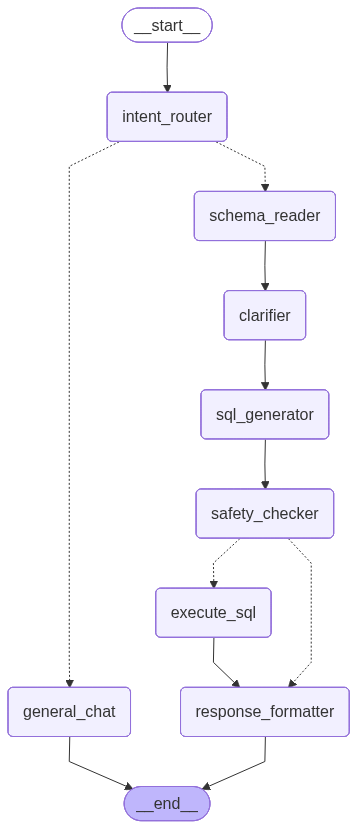
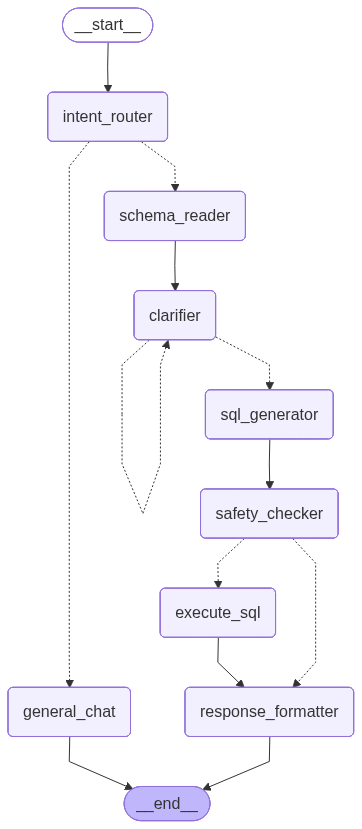
add chat history

diff --git a/frontend/src/components/ChatBox.jsx b/frontend/src/components/ChatBox.jsx
@@ -1,5 +1,5 @@
-import { useState } from "react";
-import { sendMessage, resumeChat } from "../api";
+import { useState,useEffect, useRef } from "react";
+import { sendMessage, resumeChat, fetchMessages } from "../api";
 import { statusEnum, roleEnum } from "../enums/llm_response";
 import SmartToyIcon from '@mui/icons-material/SmartToy';
 import FaceIcon from '@mui/icons-material/Face';
@@ -10,6 +10,12 @@ export default function ChatBox({ threadId, setThreadId }) {
   const [input, setInput] = useState("");
   const [waitingForResume, setWaitingForResume] = useState(false);
   const [isSending, setIsSending] = useState(false);
+  const [page, setPage] = useState(1);
+  const [hasMore, setHasMore] = useState(true);
+  const [loadingMore, setLoadingMore] = useState(false);
+  const [isscroll, setIsScroll] = useState(false);
+
+const chatBodyRef = useRef(null);
 
   const handleSend = async () => {
 
@@ -18,6 +24,8 @@ export default function ChatBox({ threadId, setThreadId }) {
     const userMessage = {
       role: roleEnum.USER,
       content: input,
+      timestamp: new Date(),
+      status: statusEnum.COMPLETED,
     };
 
 
@@ -48,6 +56,8 @@ export default function ChatBox({ threadId, setThreadId }) {
           {
             role: roleEnum.AGENT,
             content: response.response,
+            status: response.status,
+            timestamp: response.timestamp || new Date(),
           },
         ]);
         setWaitingForResume(response.status === statusEnum.INTERRUPT);
@@ -57,6 +67,8 @@ export default function ChatBox({ threadId, setThreadId }) {
         {
           role: roleEnum.AGENT,
           content: "Server error.",
+          status: statusEnum.COMPLETED,
+          timestamp: response.timestamp || new Date(),
         },
       ]);
     }
@@ -71,6 +83,73 @@ export default function ChatBox({ threadId, setThreadId }) {
     }
   };
 
+  const scrollToBottom = () => {
+    const container = chatBodyRef.current;
+
+    if (!container) return;
+
+    container.scrollTop = container.scrollHeight;
+  };
+
+  useEffect(() => {
+    async function fetchInitialMessages() {
+      if(threadId) {
+        let res = await fetchMessages(threadId);
+        setMessages(() => [...res]);
+      }
+    }
+    fetchInitialMessages();
+  }, [threadId]);
+
+  useEffect(() =>{
+    if(isscroll) {
+      return;
+    }
+    setTimeout(() => {
+          scrollToBottom();
+        }, 0);
+  }, [messages]);
+
+  const loadMoreMessages = async () => {
+    if (!threadId || loadingMore || !hasMore) return;
+
+    const container = chatBodyRef.current;
+    const oldScrollHeight = container.scrollHeight;
+
+    setLoadingMore(true);
+
+    try {
+      const res = await fetchMessages(threadId, page + 1, 15);
+
+      if (!res || res.length === 0) {
+        setHasMore(false);
+        return;
+      }
+
+      setMessages((prev) => [...res, ...prev]);
+      setPage((prev) => prev + 1);
+
+      setTimeout(() => {
+        const newScrollHeight = container.scrollHeight;
+        container.scrollTop = newScrollHeight - oldScrollHeight;
+      }, 0);
+    } finally {
+      setLoadingMore(false);
+    }
+  };
+
+  const handleScroll = () => {
+    const container = chatBodyRef.current;
+
+    if (!container) return;
+
+    if (container.scrollTop === 0) {
+      setIsScroll(true);
+      loadMoreMessages();
+      setTimeout(() => setIsScroll(false), 100);
+    }
+  };
+
   return (
 
     <div className="container-fluid h-100 py-0 px-0">
@@ -79,19 +158,33 @@ export default function ChatBox({ threadId, setThreadId }) {
         <div className="col-md-12 col-lg-12 col-xl-12 ">
 
           <div className="card h-100" id="chat2">
-            <div className="card-body" data-mdb-perfect-scrollbar-init style={{position: "relative", height: "60vh"}}>
+            <div
+              ref={chatBodyRef}
+              onScroll={handleScroll}
+              className="card-body"
+              style={{
+                position: "relative",
+                height: "60vh",
+                overflowY: "auto",
+              }}
+            >
+              {loadingMore && (
+                <div className="text-center text-muted small mb-2">
+                  Loading older messages...
+                </div>
+              )}
 
-                <div>
+              <div>
                 {messages.map((msg, index) => (
                   <div
-                    key={index}
+                    key={msg.id || index}
                     className={`d-flex flex-row justify-content-${
                       msg.role === roleEnum.USER ? "end" : "start"
                     }`}
                   >
-                    {(msg.role === roleEnum.AGENT && (
+                    {msg.role === roleEnum.AGENT && (
                       <SmartToyIcon style={{ width: "40px", height: "40px" }} />
-                    ))}
+                    )}
 
                     <div>
                       <p
@@ -109,37 +202,28 @@ export default function ChatBox({ threadId, setThreadId }) {
                           msg.role === roleEnum.USER ? "end" : "start"
                         }`}
                       >
-                        {new Date().toLocaleTimeString([], {
-                          hour: "2-digit",
-                          minute: "2-digit",
-                        })}
+                        {msg.timestamp
+                          ? new Date(
+                              typeof msg.timestamp === "string"
+                                ? msg.timestamp.replace(" ", "T")
+                                : msg.timestamp
+                            ).toLocaleTimeString([], {
+                              hour: "2-digit",
+                              minute: "2-digit",
+                            })
+                          : ""}
                       </p>
                     </div>
-                    {(msg.role === roleEnum.USER && (
-                      <FaceIcon className="ms-3" style={{ width: "40px", height: "40px" }} />
-                    ))}
+
+                    {msg.role === roleEnum.USER && (
+                      <FaceIcon
+                        className="ms-3"
+                        style={{ width: "40px", height: "40px" }}
+                      />
+                    )}
                   </div>
                 ))}
               </div>
-
-              {/* <div className="d-flex flex-row justify-content-start">
-                <SmartToyIcon style={{width: "40px", height: "100%"}}/>
-                <div>
-                  <p className="small p-2 ms-3 mb-1 rounded-3 bg-body-tertiary">What are you doing
-                    tomorrow? Can we come up a bar?</p>
-                  <p className="small ms-3 mb-3 rounded-3 text-muted text-start">23:58</p>
-                </div>
-              </div>
-
-              <div className="d-flex flex-row justify-content-end mb-4 pt-1">
-                <div>
-                  <p className="small p-2 me-3 mb-1 text-white rounded-3 bg-primary">Long time no see! Tomorrow
-                    office. will
-                    be free on sunday.</p>
-                  <p className="small me-3 mb-3 rounded-3 text-muted d-flex justify-content-end">00:06</p>
-                </div>
-                <FaceIcon style={{width: "40px", height: "100%"}}/>
-              </div> */}
             </div>
             <div className="card-footer text-muted d-flex justify-content-start align-items-center p-3">
               <FaceIcon className="me-3" style={{width: "40px", height: "100%"}}/>

diff --git a/frontend/src/api.js b/frontend/src/api.js
@@ -19,3 +19,18 @@ export const resumeChat = async (threadId, answer) => {
 
   return response.data;
 };
+
+export const fetchMessages = async (threadId, page = 1, page_size = 15) => {
+    if(!threadId) return [];
+    try {
+        const response = await axios.get(`${BASE_URL}/history/${threadId}`, {
+            params: { page, page_size }
+        });
+        console.log("Fetched messages:", response.data);
+        return response.data || [];
+    }
+    catch(err) {
+        console.error("Failed to fetch messages:", err);
+        return [];
+    }
+};

diff --git a/backend/api.py b/backend/api.py
@@ -5,6 +5,7 @@ import uuid
 from main import graph
 from enums.llm_status import LLMStatus, Role
 from flask_cors import CORS
+from chat_history import put_chat_history, get_chat_history
 
 
 app = Flask(__name__)
@@ -18,12 +19,15 @@ def extract_response(events, thread_id=None):
             interrupt_obj = event["__interrupt__"][0]
             question = interrupt_obj.value.get("query", "Additional details required.")
 
-            return {
+            res = {
                 "role": Role.AGENT.value,
                 "status": LLMStatus.INTERRUPT.value,
                 "response": question,
                 "thread_id": thread_id
             }
+
+            put_chat_history(thread_id, Role.AGENT.value, question, LLMStatus.INTERRUPT.value)
+            return res
 
         for node_name, value in event.items():
             if not isinstance(value, dict):
@@ -40,6 +44,8 @@ def extract_response(events, thread_id=None):
 
             elif isinstance(last, ToolMessage):
                 final_response = last.content.strip()
+
+    put_chat_history(thread_id, Role.AGENT.value, final_response, LLMStatus.COMPLETED.value)
 
     return {
         "role": Role.AGENT.value,
@@ -66,6 +72,8 @@ def chat():
             "thread_id": thread_id
         }
     }
+
+    put_chat_history(thread_id, Role.HUMAN.value, message, LLMStatus.COMPLETED.value)
 
     events = graph.stream(
         {
@@ -95,6 +103,8 @@ def resume():
         }
     }
 
+    put_chat_history(thread_id, Role.HUMAN.value, answer, LLMStatus.COMPLETED.value)
+
     events = graph.stream(
         Command(resume={"data": answer}),
         config=config
@@ -102,6 +112,26 @@ def resume():
 
     return jsonify(extract_response(events, thread_id=thread_id))
 
+@app.route("/history/<thread_id>", methods=["GET"])
+def history(thread_id):
+    page = int(request.args.get("page", 1))
+    page_size = int(request.args.get("page_size", 15))
+
+    history = get_chat_history(thread_id, page=page, page_size=page_size)
+
+    history.sort(key=lambda x: x[3])
+
+    print(f"DEBUG: Retrieved history for thread_id {thread_id}: {history}") 
+
+    return jsonify([
+        {
+            "role": role,
+            "content": response,
+            "status": status,
+            "timestamp": timestamp
+        }
+        for role,response,status,timestamp in history
+    ])
 
 if __name__ == "__main__":
     app.run(debug=True, port=6969)

diff --git a/backend/chat_history.py b/backend/chat_history.py
@@ -1,0 +1,29 @@
+import sqlite3
+
+def put_chat_history(thread_id: str, role: int, response: str, status: int):
+    """Store a message in the chat history for a specific thread."""
+    conn = sqlite3.connect(f"agent_chat.db")
+    cursor = conn.cursor()
+    cursor.execute("""
+        CREATE TABLE IF NOT EXISTS chat_history (
+            id INTEGER PRIMARY KEY AUTOINCREMENT,
+            thread_id TEXT NOT NULL,
+            role INTEGER NOT NULL,
+            response TEXT NOT NULL,
+            status INTEGER NOT NULL,
+            timestamp DATETIME DEFAULT CURRENT_TIMESTAMP
+        )
+    """)
+    cursor.execute("INSERT INTO chat_history (thread_id,role, response,status) VALUES (?,?, ?,?)", (thread_id,role, response, status))
+    conn.commit()
+    conn.close()
+
+def get_chat_history(thread_id: str, page: int = 1, page_size: int = 20):
+    """Retrieve chat history for a specific thread with pagination."""
+    conn = sqlite3.connect(f"agent_chat.db")
+    cursor = conn.cursor()
+    offset = (page - 1) * page_size
+    cursor.execute("SELECT role, response, status, timestamp FROM chat_history WHERE thread_id = ? ORDER BY timestamp DESC LIMIT ? OFFSET ?", (thread_id, page_size, offset))
+    history = cursor.fetchall()
+    conn.close()
+    return history

diff --git a/backend/main.py b/backend/main.py
@@ -89,6 +89,10 @@ def clarifier_node(state: GraphState, config: RunnableConfig):
         "clarified": True
     }
 
+def route_from_clarifier(state):
+    if state.get("clarified"):
+        return "sql_generator"
+    return "clarifier"
 
 def sql_generator_node(state: GraphState, config: RunnableConfig):
     response = sql_gen_chain.invoke(
@@ -184,7 +188,13 @@ def build_graph():
     graph_builder.add_edge("general_chat", END)
 
     graph_builder.add_edge("schema_reader", "clarifier")
-    graph_builder.add_edge("clarifier", "sql_generator")
+    graph_builder.add_conditional_edges("clarifier",
+        route_from_clarifier,
+        {
+            "clarifier": "clarifier",
+            "sql_generator": "sql_generator"
+        }
+    )
     graph_builder.add_edge("sql_generator", "safety_checker")
 
     graph_builder.add_conditional_edges(

diff --git a/backend/chat_tables.py b/backend/chat_tables.py
@@ -1,0 +1,27 @@
+import sqllite3
+
+def get_chat_tables(threadId: str):
+    conn = sqllite3.connect(f"agent_${threadId}.db")
+    cursor = conn.cursor()
+    cursor.execute("""
+        SELECT name
+        FROM sqlite_master
+        WHERE type='table';
+    """)
+
+    tables = cursor.fetchall()
+    table_schema = []
+
+    for table in tables:
+        table_name = table[0]
+        cursor.execute(f"PRAGMA table_info({table_name});")
+        columns = cursor.fetchall()
+
+        column_info = ", ".join(
+            [f"{col[1]} ({col[2]})" for col in columns]
+        )
+
+        table_schema.append(f"Table: {table_name}, Columns: {column_info}")
+
+    conn.close()
+    return "\n".join(table_schema) if table_schema else "No tables found."
